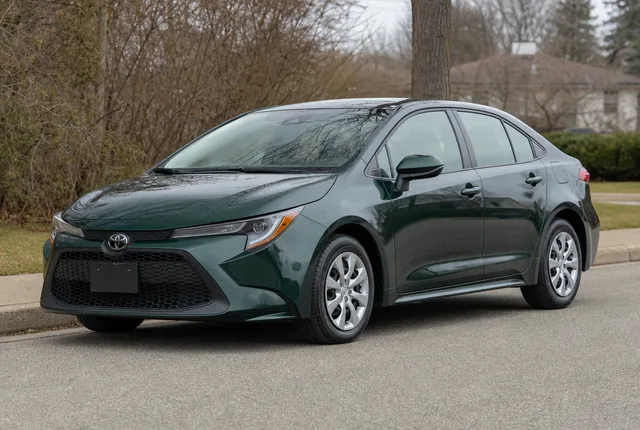
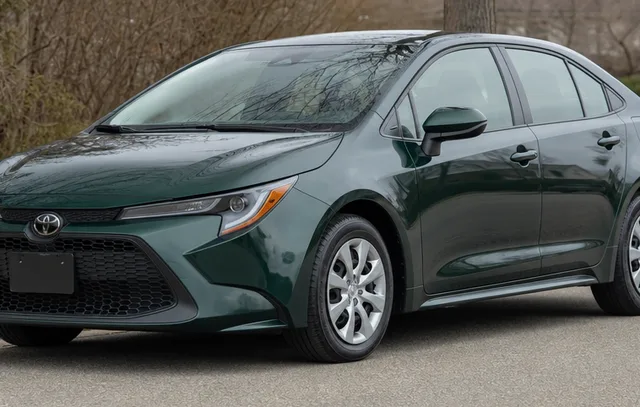
Map: dragging sticks, and the fleet reads at a glance
The recenter effect keyed on the center array's identity, which
changes every render, so the moment the search-this-area pill rendered
the map snapped back. It now keys on the coordinates and skips no-op
recenters, verified with a scripted real mouse drag: the pane
transform is identical before and after adopting the dragged center.
The hero headline becomes one centered line, and the listing photos
are center-cropped tighter so every thumbnail fills its frame.

diff --git a/web/src/app/MapView.tsx b/web/src/app/MapView.tsx
@@ -68,14 +68,25 @@ export function MapView({ cars, center, zoom = 13, onSelect, onPick, onMoved, pi
     // eslint-disable-next-line react-hooks/exhaustive-deps
   }, []);
 
-  // Follow the center prop without tearing the map down, and without the
-  // programmatic jump counting as a user move.
+  // Follow the center prop without tearing the map down. Two guards keep the
+  // user in charge: the effect keys on the coordinates, not the array's
+  // identity (which changes every render and used to snap a dragged map
+  // back), and a no-op recenter is skipped so adopting the dragged center via
+  // Search this area leaves the view exactly where the user put it.
+  const centerLat = center[0];
+  const centerLng = center[1];
   useEffect(() => {
-    if (map.current) {
-      programmaticMove.current = true;
-      map.current.setView([center[0], center[1]], map.current.getZoom());
+    const current = map.current;
+    if (!current) {
+      return;
     }
-  }, [center]);
+    const at = current.getCenter();
+    if (Math.abs(at.lat - centerLat) < 1e-6 && Math.abs(at.lng - centerLng) < 1e-6) {
+      return;
+    }
+    programmaticMove.current = true;
+    current.setView([centerLat, centerLng], current.getZoom());
+  }, [centerLat, centerLng]);
 
   useEffect(() => {
     const group = layer.current;

diff --git a/web/src/app/SearchPage.tsx b/web/src/app/SearchPage.tsx
@@ -62,10 +62,10 @@ export function SearchPage({ me }: { readonly me: Me | null | 'loading' }) {
   return (
     <div>
       <section className="rounded-3xl bg-pine-800 px-6 py-10 sm:px-10 sm:py-14">
-        <h1 className="max-w-xl text-3xl font-extrabold tracking-tight text-paper-50 sm:text-5xl">
-          Rent a car by the hour, from people nearby.
+        <h1 className="text-center text-3xl font-extrabold tracking-tight text-paper-50 sm:text-5xl">
+          Rent a car, fast
         </h1>
-        <p className="pt-2 text-sm font-medium text-pine-200">
+        <p className="pt-2 text-center text-sm font-medium text-pine-200">
           Every price is locked when you book, and a booked hour can never be sold twice.
         </p>
         <div className="mt-6 flex flex-wrap items-end gap-x-5 gap-y-4 rounded-2xl bg-paper-50 p-4 shadow-sheet">
